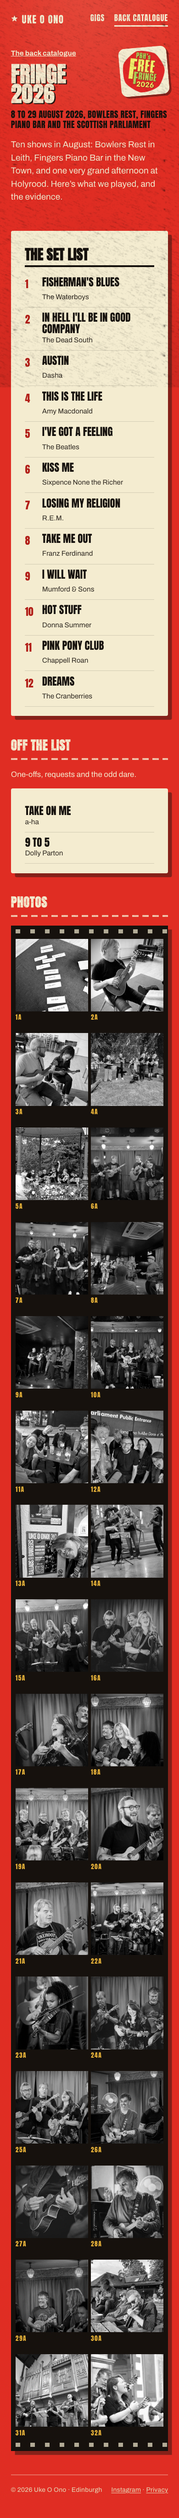
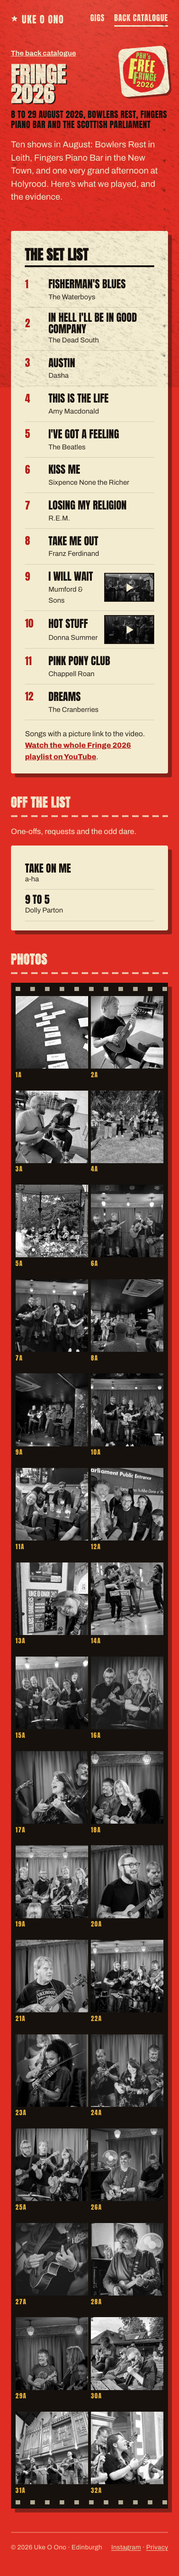
feat(site): link Fringe 2026 songs to their YouTube videos
The band's Fringe 2026 videos are going up on YouTube one song at a
time. A set-list or off-list song can now carry `video: <id>`: its row
links to the video (within the entry's `playlist`), with a thumbnail
and play mark, and the whole row is the link. The playlist is linked
under the set list, and the Played ticket counts the videos.

Thumbnails are fetched once by scripts/fetch-video-thumbs.mjs
(`npm run thumbs -w @uke-o-ono/site`), which reads the front matter
with gray-matter, and are committed, so the site serves them itself
and visitors never load anything from YouTube. No embeds, so the
consent banner is unaffected.

Starts with I Will Wait and Hot Stuff.

diff --git a/packages/site/assets/styles.css b/packages/site/assets/styles.css
@@ -267,7 +267,8 @@ footer.site {
 /* Photos cropped to a fixed shape; each use sets its own aspect ratio. */
 .band-strip img,
 .gig-card__photo,
-.film__frame img {
+.film__frame img,
+.song__thumb img {
   display: block;
   width: 100%;
   height: auto;
@@ -549,14 +550,75 @@ footer.site {
 }
 
 .song {
+  position: relative;
   display: grid;
-  grid-template-columns: 2.2rem 1fr;
+  grid-template-columns: 2.2rem 1fr auto;
   grid-template-areas:
-    "n name"
-    ". artist";
+    "n name thumb"
+    ". artist thumb";
+  align-items: center;
+  column-gap: 0.8rem;
   padding: 0.55rem 0;
   border-bottom: 1px solid rgb(22 17 13 / 15%);
   break-inside: avoid;
+}
+
+/* A song with a video: its name links to it, stretched over the whole row. */
+.song__link {
+  color: var(--ink);
+  text-decoration: none;
+}
+
+.song__link::after {
+  content: "";
+  position: absolute;
+  inset: 0;
+
+  /* Above the thumbnail, which is positioned for its play mark. */
+  z-index: 1;
+}
+
+.song--video:hover .song-name {
+  color: var(--red-deep);
+}
+
+.song__thumb {
+  grid-area: thumb;
+  position: relative;
+  width: 6.4rem;
+  border: 2px solid var(--ink);
+  background: var(--ink);
+}
+
+.song__thumb img {
+  filter: grayscale(1) brightness(0.85);
+}
+
+.song--video:hover .song__thumb img {
+  filter: grayscale(0.2);
+}
+
+/* Play mark: a cream triangle over the thumbnail. */
+.song__thumb::after {
+  content: "";
+  position: absolute;
+  left: 50%;
+  top: 50%;
+  translate: -35% -50%;
+  border-style: solid;
+  border-width: 0.55rem 0 0.55rem 0.9rem;
+  border-color: transparent transparent transparent var(--cream);
+}
+
+.sheet-foot {
+  margin: 1rem 0 0.2rem;
+  color: var(--ink-soft);
+  font-size: 0.95rem;
+}
+
+.sheet-foot a {
+  color: var(--red-deep);
+  font-weight: 800;
 }
 
 .song-n {
@@ -583,8 +645,8 @@ footer.site {
 /* Off-list songs have no running order, so no number column. */
 .songs--extras .song {
   grid-template:
-    "name"
-    "artist" / 1fr;
+    "name thumb"
+    "artist thumb" / 1fr auto;
 }
 
 /* Photos: a strip of black film with sprocket holes top and bottom and
@@ -881,4 +943,14 @@ footer.site {
 .consent-btn--primary {
   background: var(--cream);
   color: var(--ink);
+}
+
+/* Text for screen readers only. */
+.visually-hidden {
+  position: absolute;
+  width: 1px;
+  height: 1px;
+  overflow: hidden;
+  clip-path: inset(50%);
+  white-space: nowrap;
 }

diff --git a/packages/site/content/back-catalogue/back-catalogue.11tydata.js b/packages/site/content/back-catalogue/back-catalogue.11tydata.js
@@ -5,5 +5,9 @@ export default {
   eleventyComputed: {
     // Where an entry's exported photos live: <n>.jpg and <n>-thumb.jpg.
     photoBase: (data) => `/back-catalogue/${data.page.fileSlug}/photos/`,
+    // Where its YouTube thumbnails live: <video id>.jpg (scripts/fetch-video-thumbs.mjs).
+    videoBase: (data) => `/back-catalogue/${data.page.fileSlug}/videos/`,
+    videoCount: (data) =>
+      [...(data.setlist ?? []), ...(data.extras ?? [])].filter((s) => s.video).length,
   },
 };

diff --git a/packages/site/content/back-catalogue/fringe-2026.md b/packages/site/content/back-catalogue/fringe-2026.md
@@ -7,6 +7,7 @@ shows: 10
 dates: 8 to 29 August 2026
 venues: Bowlers Rest, Fingers Piano Bar and the Scottish Parliament
 summary: Ballads & Bangers at PBH's Free Fringe. Ten shows, one of them at Holyrood.
+playlist: PLcoaok3Ee1s4
 logo:
   src: /back-catalogue/fringe-2026/pbh-free-fringe-2026.png
   alt: PBH's Free Fringe 2026
@@ -165,8 +166,8 @@ setlist:
   - { song: "Kiss Me", artist: "Sixpence None the Richer" }
   - { song: "Losing My Religion", artist: "R.E.M." }
   - { song: "Take Me Out", artist: "Franz Ferdinand" }
-  - { song: "I Will Wait", artist: "Mumford & Sons" }
-  - { song: "Hot Stuff", artist: "Donna Summer" }
+  - { song: "I Will Wait", artist: "Mumford & Sons", video: "VkAUwBi14nI" }
+  - { song: "Hot Stuff", artist: "Donna Summer", video: "_ymUOfXbnZc" }
   - { song: "Pink Pony Club", artist: "Chappell Roan" }
   - { song: "Dreams", artist: "The Cranberries" }
 extras:

diff --git a/README.md b/README.md
@@ -52,6 +52,11 @@ added automatically; see `fringe-2026.md` for the full shape:
   (card blurb and meta description), optional `logo` (`src`, `alt`)
 - `setlist`: the running order, each `{ song, artist }`
 - `extras`: songs played off the list, same shape
+- `video` on any `setlist` or `extras` song: its YouTube video ID. The song
+  links to it (within `playlist`) with a thumbnail. After adding one, run
+  `npm run thumbs -w @uke-o-ono/site` and commit the fetched image; the site
+  serves thumbnails itself, so visitors never load anything from YouTube.
+- `playlist`: the entry's YouTube playlist ID, linked under the set list
 - `photos`: each `{ n, where, alt }`, in gallery order, shown as a film strip
   with a lightbox. `n` names `static/back-catalogue/<slug>/photos/<n>.jpg`
   (at most 1600px and 300KB) and `<n>-thumb.jpg` (a 400px square crop);
